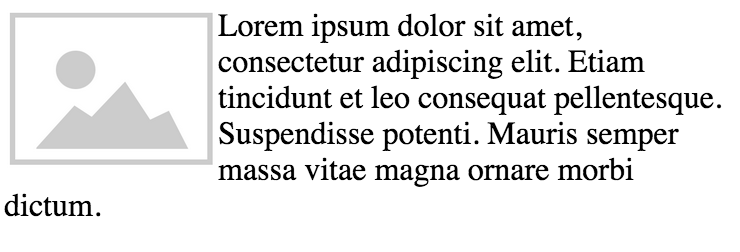
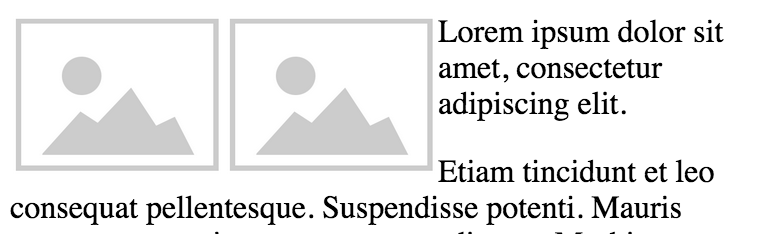
shuffling content around

diff --git a/Crawling/chapter5.md b/Crawling/chapter5.md
@@ -91,18 +91,11 @@ Before we start building any fancy layouts with floats, we need to understand wh
 
 We can float an element in either direction: `float: left` or `float: right`.  This takes the element out of the document flow and shifts it to the edge of the current line of text.  If the element is inline, it is changed to be block-level.  Now in its new location, a space is carved out of the normal document flow where the element is, so content will not overlap with the floated element.
 
-Notice that once the text reaches the bottom of the floated element, the document flow extends once again to the edge of its container.  Sometimes we design with shorter content and do not see this behavior until we add more content or work with a smaller browser window.  We need to be aware of it, especially when floating to the left, or we can wind up with oddly-placed words that can be distruptive to the reader:
+If we float multiple elements, they will stack up alongside one another.  Here are two elements floated left:
 
 <img src="images/figure5-9.png"/>
 
-This is probably not the behavior we want, especially if we are trying to make our element its own column with the main content in another column of its own.  The solution to this is to
-
-<!---
-stacking floats horizontally
-splitting floats in both direction
-extending into another block-level
-clearing
--->
+If we were to put all of our content into two containers, we could float both containers and set their sizes appropriately to create a two-column layout for our page.  Go ahead and try this yourself.  We will look at an example of this in depth in the next chapter.
 
 ## The Display Property
 

diff --git a/README.md b/README.md
@@ -54,11 +54,11 @@ For now, I am releasing these books here as drafts, free to read.  I would like 
 
 ## Contributing
 
+Use [the issues page](https://github.com/keithjgrant/Taming-CSS/issues) to give feedback or find ways to help.
+
 Any contributions you would like to make are certainly welcome.  I welcome help editing, correcting typos, or making improvements to the examples.
 
 If you have content to contribute, you may, though note that in doing so, you are giving me a non-exclusive license to use that content should I publish these books.  Also know that I may edit or rephase it as necessary to fit the voice of the rest of the book.  My overall outline is also subject to change as the project continues, especially in these earlier stages... so, your contribution may be moved, split into separate sections, or even altogether cut.  Regardless, I will certainly mention you by name in the thank-yous!
-
-Check [the issues page](issues.md) for a list of specific things that need doing.
 
 ## License & Copyright
 

diff --git a/Crawling/chapter6.md b/Crawling/chapter6.md
@@ -1,7 +1,14 @@
 # Taming CSS
 # Chapter 6: The Box Model
 
+Notice that once the text reaches the bottom of the floated element, the document flow extends once again to the edge of its container.  Sometimes we design with shorter content and do not see this behavior until we add more content or work with a smaller browser window.  We need to be aware of it, especially when floating to the left, or we can wind up with oddly-placed words that can be distruptive to the reader:
+
+<img src="images/figure6-1.png"/>
+
+This is probably not the behavior we want, especially if we are trying to make our element its own column with the main content in another column of its own.  We can fix this by making each column
+
 <!--
+width problem (w/ floats)
 margin collapsing
 overflow
 negative margins

diff --git a/Walking/floats.md b/Walking/floats.md
@@ -1,0 +1,20 @@
+
+Even though the flow of the text is altered, this is not actually changing the shape of the container.  Let's put a floated element inside a container and use some background colors to observe exactly what is happening.
+
+```html
+<div class="container">
+  <div class="floated">floated element</div>
+  Contents of the container.
+</div>
+```
+```css
+.container {
+  background-color
+}
+
+<!---
+stacking floats horizontally
+splitting floats in both direction
+extending into another block-level
+clearing
+-->

diff --git a/outline.md b/outline.md
@@ -43,8 +43,9 @@ Other misc to sort:
 * submenus with :hover
 * CSS-first development
 * refactoring!
-* grids?
+* grid layouts
 * opacity
 * negative margins
 * nav menus (l/r border, -1px margin size trick)
 * bootstrap, et al.
+* advanced units: angles (deg, grad, rad, turn), time (s, ms), resolution (dpi, dpcm, dppx), frequency (hz, khz)
